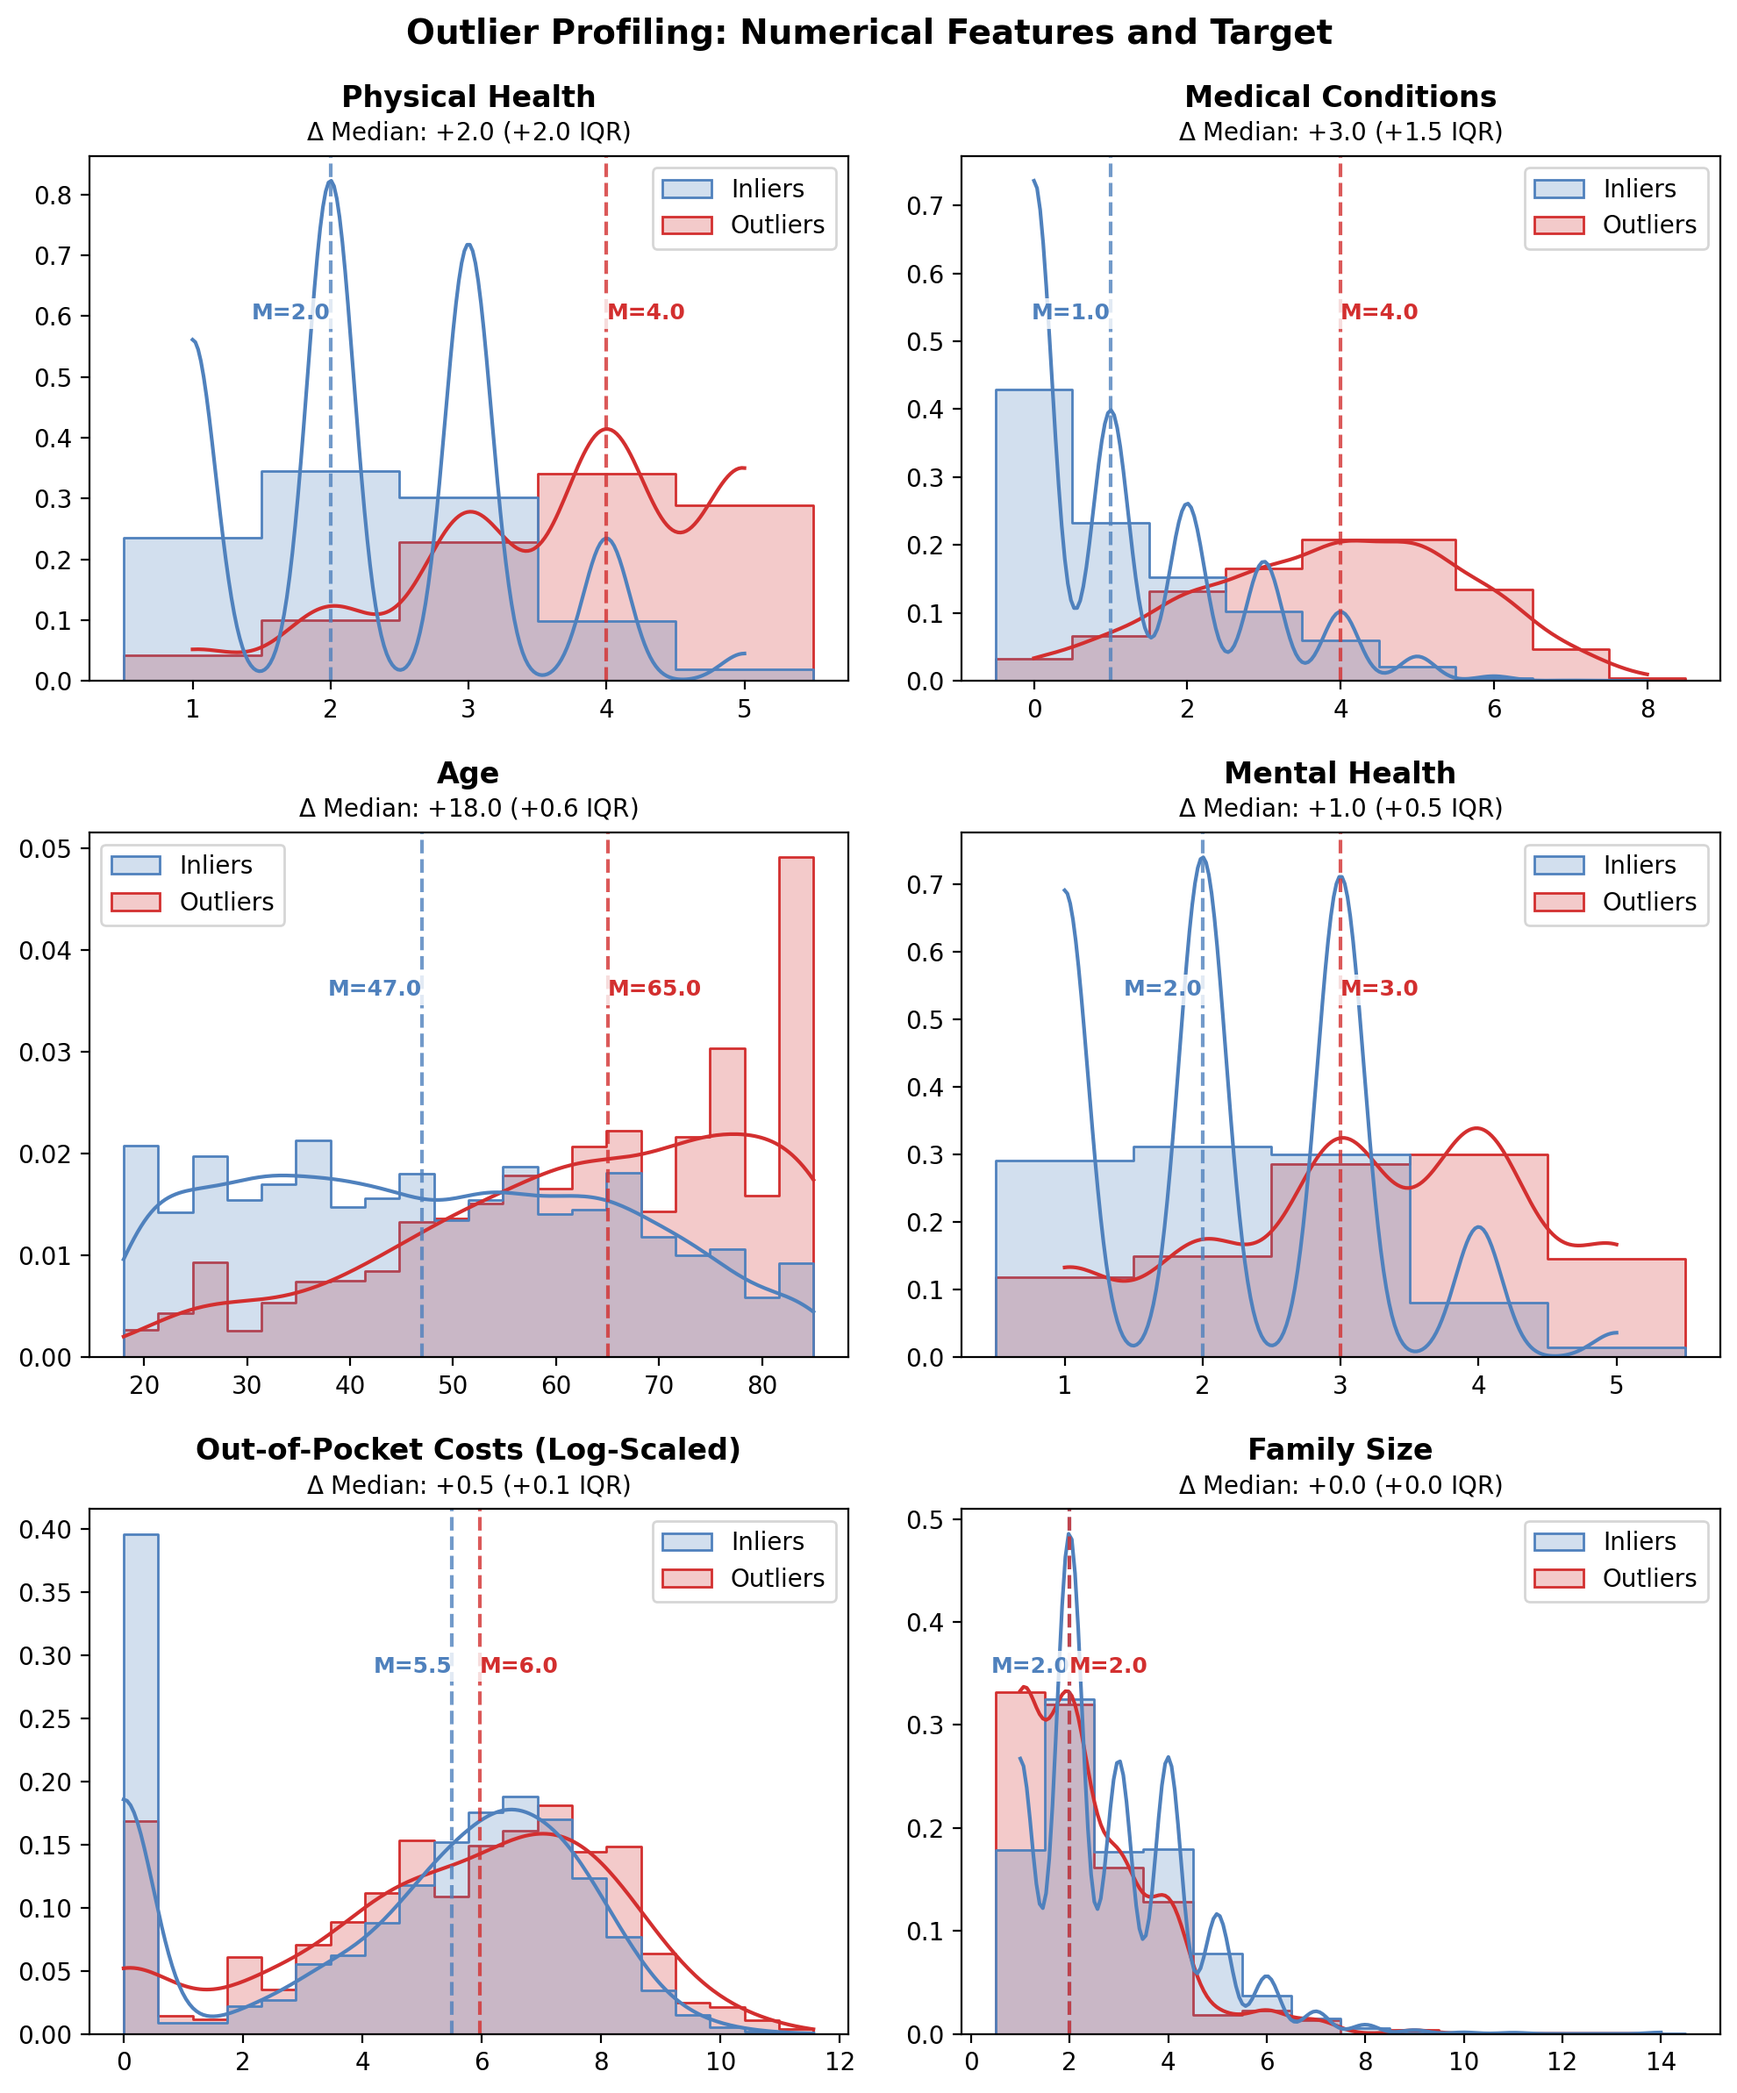
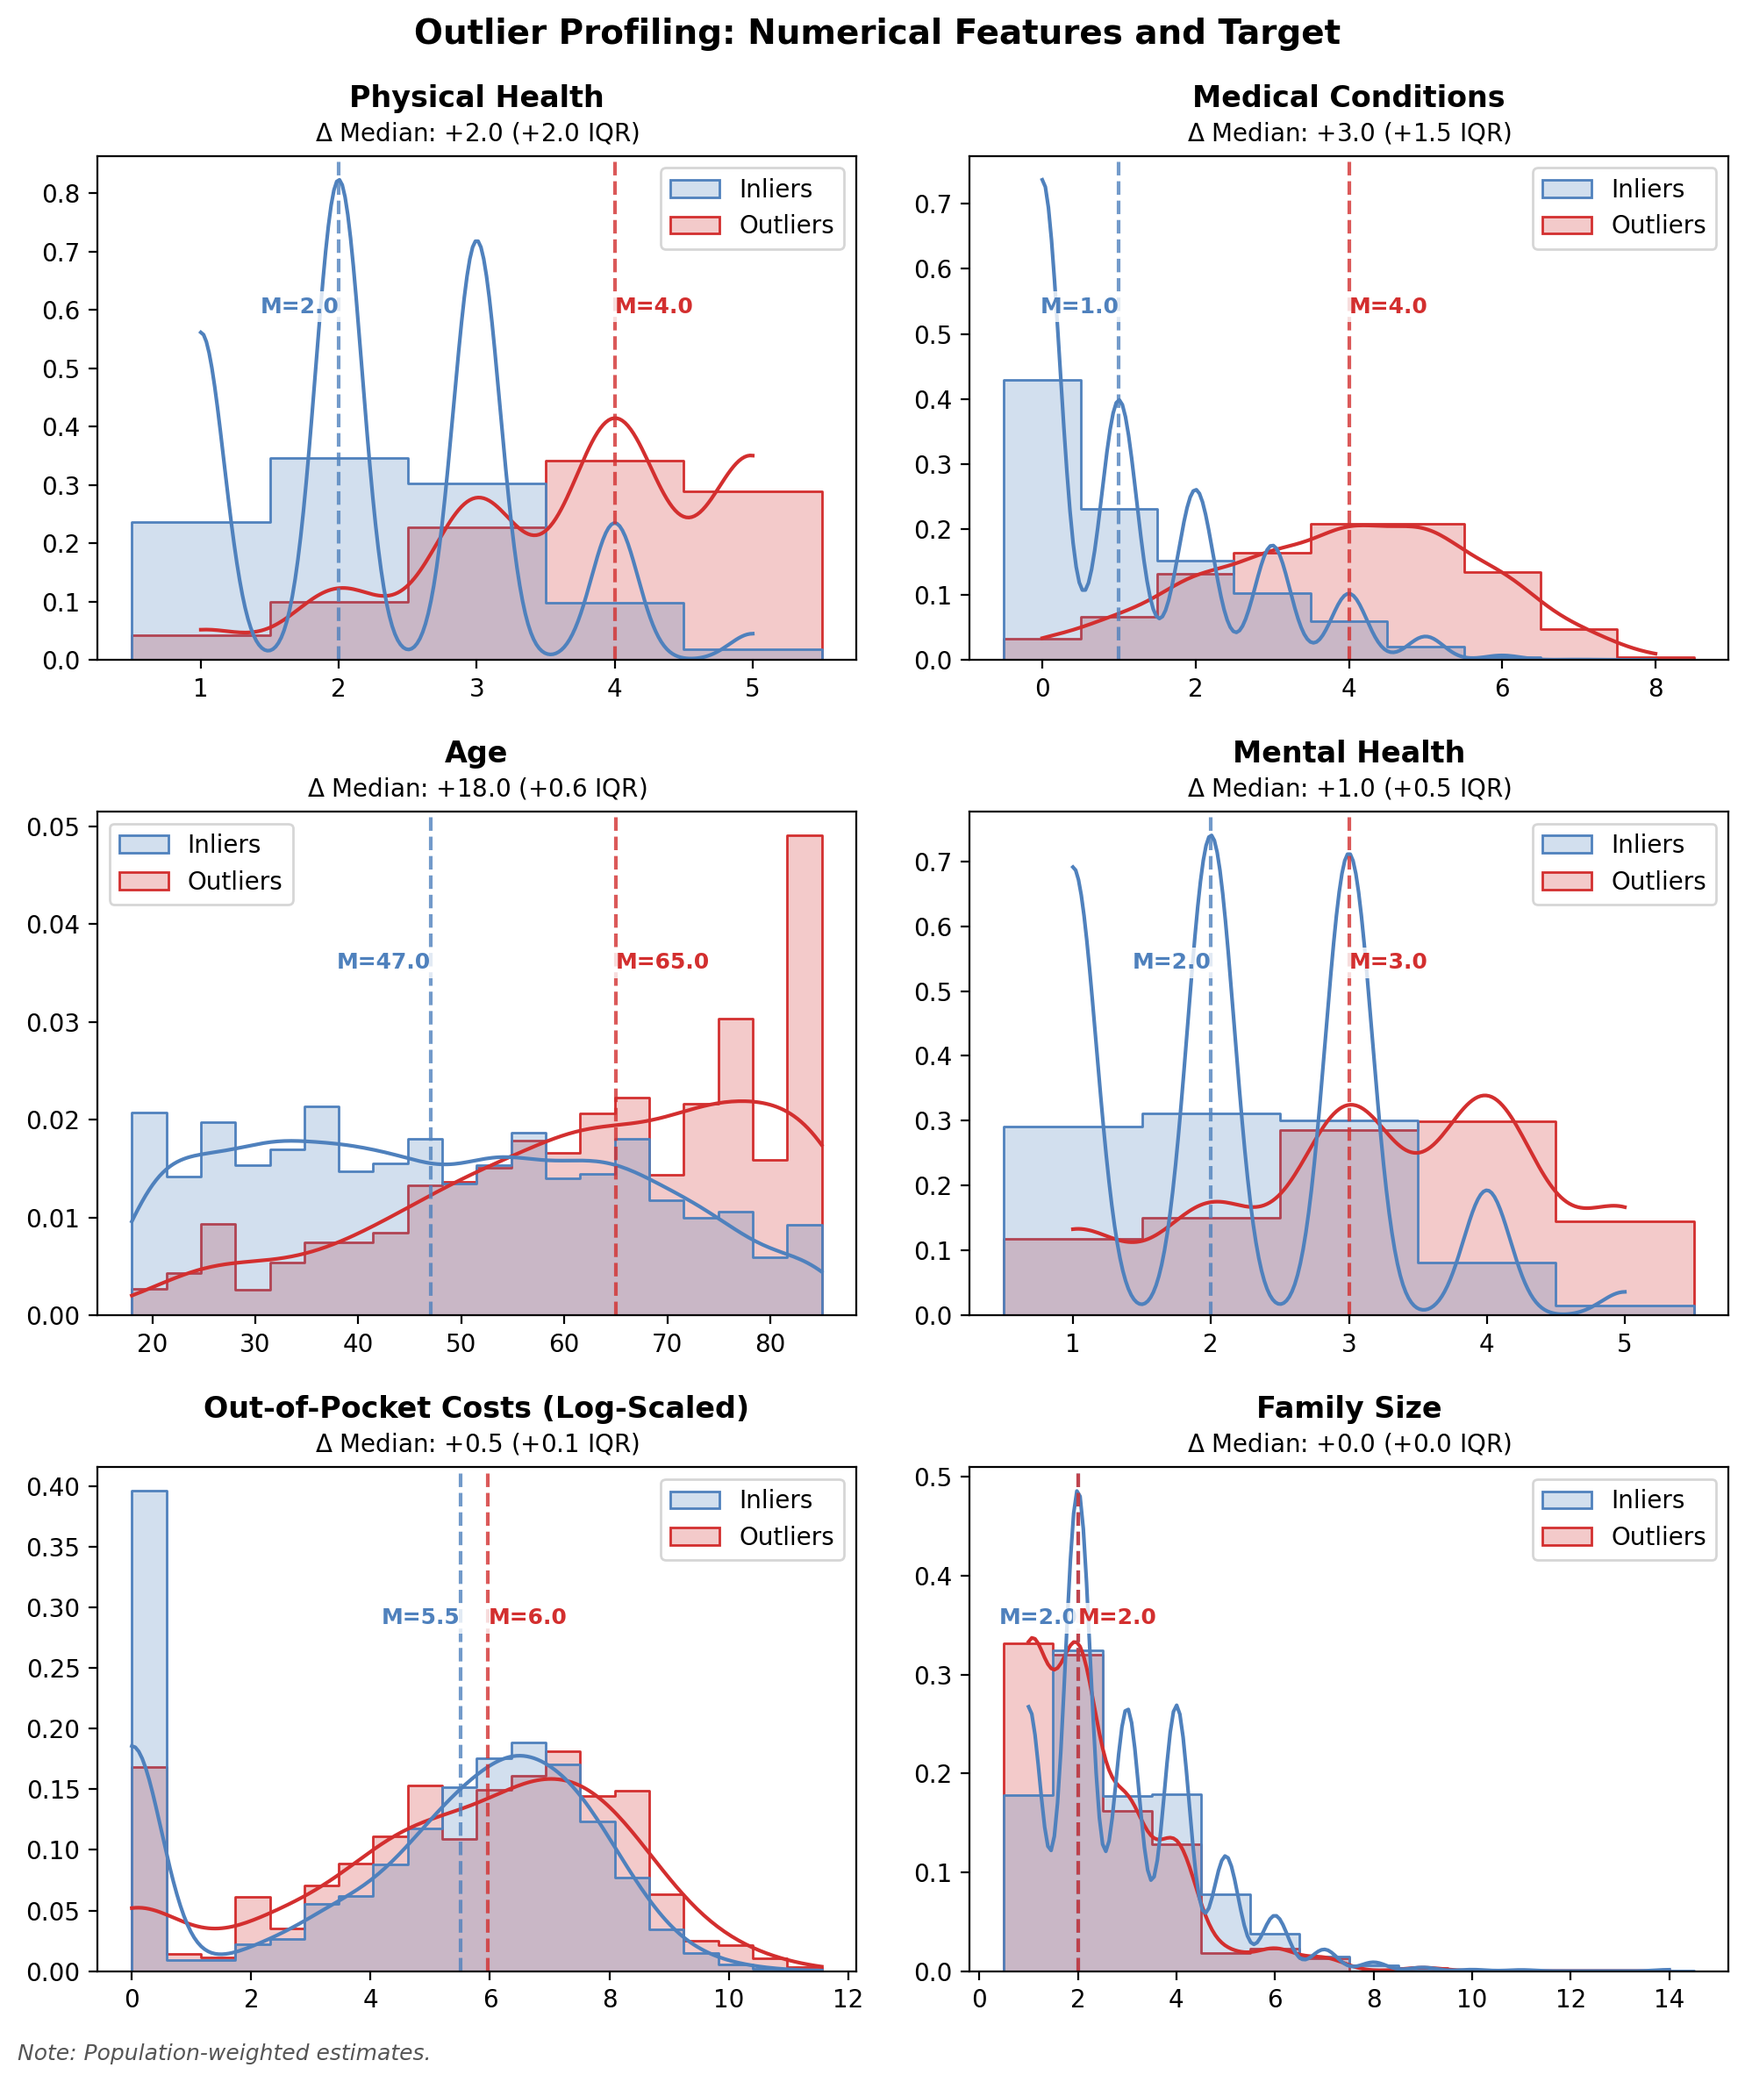
style(data): add footnote in outlier profiling for numerical features and target

diff --git a/notebooks/medical_cost_prediction.py b/notebooks/medical_cost_prediction.py
@@ -1963,8 +1963,14 @@ for i, numeric_column in enumerate(outlier_num_cols_viz):
         ax.get_legend().set_title(None)  # Removes legend title
 
 # Customize histogram matrix
-fig.suptitle("Outlier Profiling: Numerical Features and Target", fontsize=14, fontweight="bold", y=0.99)
-fig.tight_layout(h_pad=1.5, w_pad=2.0)
+fig.suptitle("Outlier Profiling: Numerical Features and Target", fontsize=14, fontweight="bold", y=0.98)
+
+# Adjust layout 
+fig.tight_layout(rect=[0, 0.02, 1, 0.99], h_pad=1.5, w_pad=2.0)
+
+# Add footnote
+fig.text(0.01, 0.01, "Note: Population-weighted estimates.", ha="left", fontsize=9, style="italic", color="#555555")
+
 plt.savefig("../figures/eda/outlier_numeric_profile.png", bbox_inches="tight", dpi=200)
 plt.show()
 
